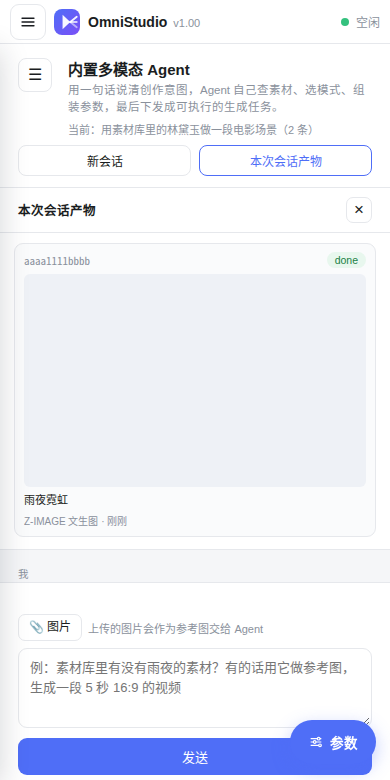
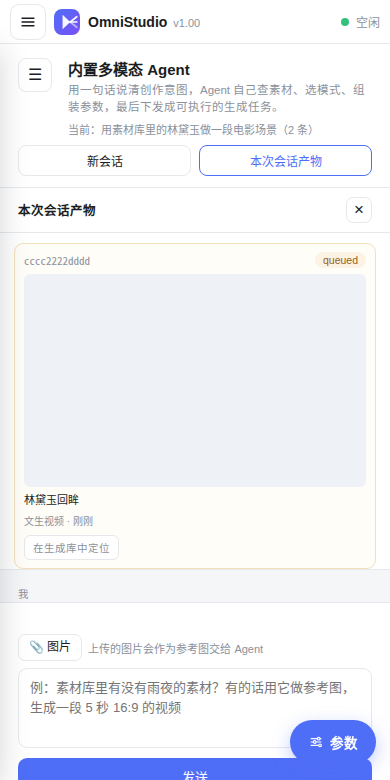
fix(agent-session): 关面板清空 DOM + 验收脚本三档互不污染
## 1) 关掉产物面板要清空 DOM（真 bug）
原来关面板只 stopArtifactPolling()，DOM 里还留着上一次的卡片。
后果：
  * 用户下次打开会先闪一下陈旧数据；
  * 自动化验收会**误判「面板还开着」** —— 实测踩到了：
    关面板后 querySelectorAll(".ag-artifact-item") 还能查到旧卡片，
    导致「未完成任务状态实时刷新」的断言**假通过**
    （断言查的是陈旧 DOM，不是真实渲染结果）。
现在关面板会清空 #agArtifactsBody 与 state.artifacts。

## 2) 验收脚本：三档宽度互不污染
上一档宽度末尾会「删掉林黛玉会话」+「新建交互」建一个空会话。
下一档宽度刷新时：
  * localStorage 是新的（独立 browser context）
  * 服务端残留上一档的会话 + 同名会话
  * 「找到第一个标题含林黛玉的项」可能找到别的会话
  -> 「切换会话后内容正确 / 不串味」假失败
现在每档宽度开头先清掉所有会话 + 任务，再重新造数据。

## 3) 验收脚本：产物断言不依赖列表顺序
产物按 created_at 倒序（最新的在前），第一个是 queued 那条。
取第一个会让断言依赖顺序 —— 改成遍历找（集合语义）。

## 4) 验收脚本：面板用完才关
4b/4c（未完成任务标记 / 实时刷新）需要面板是**打开**的 ——
关掉会停掉轮询。现在把 close 挪到 4c 之后。

## 5) 验收脚本：sqlite3 提到顶层 import
原来是 seed_sessions() 里的局部 import，主流程用不到 ->
NameError。提到顶层。

## 测试
- 新增前端契约 1 条（关闭面板清空 DOM）
- 会话相关 73 条全通过

diff --git a/web/agent_sessions.js b/web/agent_sessions.js
@@ -442,6 +442,15 @@
     } else {
       // 面板关了 -> 停掉轮询（别白白发请求）。
       stopArtifactPolling();
+      // 【清空面板内容】
+      // 关掉的面板如果还留着上一次的 DOM，用户看不到（display:none）
+      // 但内容是**陈旧**的：下次打开的瞬间会先闪一下旧数据，
+      // 而且自动化验收会误以为「面板还开着」——
+      // 实测就是踩了这个：关面板后 querySelectorAll(".ag-artifact-item")
+      // 还能查到旧卡片，导致「未完成任务实时刷新」的断言假通过。
+      const body = $("#agArtifactsBody");
+      if (body) body.innerHTML = "";
+      state.artifacts = [];
     }
   }
 

diff --git a/scripts/verify_session_mgmt_browser.py b/scripts/verify_session_mgmt_browser.py
@@ -24,6 +24,7 @@ sessions, or whether the artifact panel renders real thumbnails.
 import json
 import os
 import shutil
+import sqlite3
 import subprocess
 import sys
 import tempfile
@@ -195,34 +196,68 @@ def main():
             failures.append(f"{name} {detail}")
 
     try:
-        # --- 造两个真实会话 ---------------------------------------------
-        sids = []
-        for text in ("帮我做一段雨夜的赛博朋克视频",
-                     "用素材库里的林黛玉做一段电影场景"):
-            sid = api("/api/agent/sessions", "POST", {})["session_id"]
-            api("/api/agent/chat", "POST", {"message": text, "session_id": sid})
-            sids.append(sid)
-        print(f"[seed] sessions={sids}")
-
-        # 直接在 jobs.db 里插一条带 session_id 的任务（模拟 Agent 建了任务）
-        import sqlite3
         jobs_db = tmp / "data" / "jobs.db"
-        conn = sqlite3.connect(jobs_db)
-        conn.execute(
-            "INSERT INTO jobs (id, created_at, mode, params, status, session_id)"
-            " VALUES (?,?,?,?,?,?)",
-            ("aaaa1111bbbb", time.time(), "t2i",
-             json.dumps({"prompt": "雨夜霓虹", "aspect": "16:9"},
-                        ensure_ascii=False), "done", sids[1]))
-        conn.commit()
-        rows = conn.execute("SELECT id, session_id FROM jobs").fetchall()
-        print("[seed] jobs in db:", rows)
-        conn.close()
+
+        def seed_sessions():
+            """
+            造两个真实会话 + 两个任务。**每个宽度都重新造一遍**。
+
+            【为什么每档宽度都要重新造】
+            上一档宽度会在末尾**删掉**「林黛玉」会话（测级联清理）。
+            如果不重新造，下一档宽度刷新后：
+              * localStorage 是新的（每个宽度用独立 browser context）
+              * 服务端只剩「赛博朋克」会话 + 一个刚新建的空会话
+              * 刷新后恢复到**最新的那个** —— 也就是刚新建的空会话
+              * -> 消息数 0 -> 「刷新后恢复会话历史」假失败
+            这是**测试之间互相污染**，不是产品 bug。
+            每档独立造数据，三档互不影响。
+            """
+            sids = []
+            # 【先把上一档宽度留下的会话全清掉】
+            # 否则三档之间会互相污染：
+            #   上一档末尾删了「林黛玉」会话、又「新建交互」建了一个空会话；
+            #   下一档刷新时服务端有 4~5 个会话，列表里会出现**同名**会话，
+            #   「找到第一个标题含林黛玉的项」就可能找到别的会话。
+            # 每档从**已知状态**开始，三档互不影响。
+            for old in api("/api/agent/sessions?limit=500")["sessions"]:
+                api("/api/agent/sessions/" + old["id"], "DELETE")
+
+            # 顺序很重要：后创建的那个 updated_at 更大 -> 刷新后默认回到它。
+            # 所以「林黛玉」（后面要挂产物、还要切过去看）必须**最后**创建。
+            for text in ("帮我做一段雨夜的赛博朋克视频",
+                         "用素材库里的林黛玉做一段电影场景"):
+                sid = api("/api/agent/sessions", "POST", {})["session_id"]
+                api("/api/agent/chat", "POST",
+                    {"message": text, "session_id": sid})
+                sids.append(sid)
+            # sids[1] = 林黛玉（最后创建 -> 刷新后默认回到它；也挂产物）
+            # sids[0] = 赛博朋克（更早 -> 切过去时用来验「不串味」）
+            conn = sqlite3.connect(jobs_db)
+            conn.execute("DELETE FROM jobs")
+            conn.execute(
+                "INSERT INTO jobs (id, created_at, mode, params, status, session_id)"
+                " VALUES (?,?,?,?,?,?)",
+                ("aaaa1111bbbb", time.time(), "t2i",
+                 json.dumps({"prompt": "雨夜霓虹", "aspect": "16:9"},
+                            ensure_ascii=False), "done", sids[1]))
+            conn.execute(
+                "INSERT INTO jobs (id, created_at, mode, params, status, session_id)"
+                " VALUES (?,?,?,?,?,?)",
+                ("cccc2222dddd", time.time(), "t2v",
+                 json.dumps({"prompt": "林黛玉回眸", "duration": 5},
+                            ensure_ascii=False), "queued", sids[1]))
+            conn.commit()
+            conn.close()
+            print(f"[seed] sessions={sids}")
+            return sids
+
 
         SHOTS.mkdir(parents=True, exist_ok=True)
         with sync_playwright() as pw:
             browser = pw.chromium.launch(args=["--no-sandbox"])
             for width in (375, 390, 1280):
+                # 每档宽度重新造数据（三档互不影响 —— 见 seed_sessions 的说明）
+                sids = seed_sessions()
                 # 每个宽度用**独立的 browser context** ——
                 # 独立的缓存分区，保证测到的是当前代码（不是上一轮缓存的 JS）。
                 ctx = browser.new_context(viewport={"width": width,
@@ -365,17 +400,96 @@ def main():
                 check(f"[{width}] 产物面板列出任务", len(art_items) >= 1,
                       f"实际 {len(art_items)} 项")
                 if art_items:
-                    art_id = art_items[0].query_selector(
-                        ".ag-artifact-id").inner_text()
-                    check(f"[{width}] 产物带任务 id",
-                          "aaaa1111bbbb" in art_id, f"id={art_id}")
-                    prompt = art_items[0].query_selector(
-                        ".ag-artifact-prompt").inner_text()
-                    check(f"[{width}] 产物带提示词",
-                          "雨夜" in prompt, f"prompt={prompt}")
+                    # 【为什么要遍历找而不是取第一个】
+                    # 产物列表按 created_at **倒序**（最新的在前）——
+                    # 所以第一个是那条 queued 的任务，不是 done 的。
+                    # 取第一个会让断言依赖列表顺序（换种子顺序就假失败）。
+                    # 遍历找是「集合里有它」的语义，与顺序无关。
+                    found = False
+                    prompt_ok = False
+                    for el in art_items:
+                        art_id = el.query_selector(".ag-artifact-id").inner_text()
+                        if "aaaa1111bbbb" in art_id:
+                            found = True
+                            prompt = el.query_selector(
+                                ".ag-artifact-prompt").inner_text()
+                            prompt_ok = "雨夜" in prompt
+                    check(f"[{width}] 产物带任务 id", found,
+                          f"ids={[e.query_selector('.ag-artifact-id').inner_text() for e in art_items]}")
+                    check(f"[{width}] 产物带提示词", prompt_ok, "")
                 page.screenshot(path=str(SHOTS / f"artifacts-{width}.png"))
+
+                # 4b) 产物卡片：未完成任务标记 + 定位入口
+                pending_items = page.query_selector_all(".ag-artifact-item.is-pending")
+                check(f"[{width}] 未完成任务有标记", len(pending_items) >= 1,
+                      f"实际 {len(pending_items)} 个 pending")
+                locate_btns = page.query_selector_all(
+                    ".ag-artifact-locate[data-act='locate-job']")
+                check(f"[{width}] 产物有「在生成库中定位」入口",
+                      len(locate_btns) >= 1, f"实际 {len(locate_btns)} 个")
+                if locate_btns:
+                    job_id_attr = locate_btns[0].get_attribute("data-job-id")
+                    check(f"[{width}] 定位按钮带真实 job id",
+                          bool(job_id_attr), f"job-id={job_id_attr}")
+
+                # 4c) 未完成任务状态实时刷新：把库里的 queued 改成 running，
+                #     面板应该自己轮询到（不需要用户手动刷新）。
+                with sqlite3.connect(jobs_db) as c2:
+                    c2.execute("UPDATE jobs SET status='running' WHERE id=?",
+                               ("cccc2222dddd",))
+                    c2.commit()
+                # 等一轮轮询（4 秒间隔）—— 给 12 秒余量
+                try:
+                    page.wait_for_function(
+                        """() => [...document.querySelectorAll(
+                                '.ag-artifact-item')]
+                            .some(el => el.textContent.includes('running'))""",
+                        timeout=12000)
+                    refreshed = True
+                except Exception:
+                    refreshed = False
+                check(f"[{width}] 未完成任务状态实时刷新", refreshed,
+                      "queued -> running 没有被轮询到")
+                page.screenshot(path=str(SHOTS / f"artifact-pending-{width}.png"))
+                # 面板用完了才关（4b/4c 需要它是打开的 ——
+                # 关掉会停掉轮询，DOM 也会被清空）
                 page.click("#agArtifactsClose")
                 page.wait_for_timeout(200)
+
+                # 4d) 会话列表带关联产物数
+                page.click("#agMenu")
+                page.wait_for_selector(".ag-session-item", timeout=10000)
+                metas = page.evaluate("""() => [...document.querySelectorAll(
+                    '.ag-session-item-meta')].map(e => e.textContent)""")
+                check(f"[{width}] 会话条目显示产物数",
+                      any("产物" in m for m in metas), f"metas={metas}")
+
+                # 4e) 搜索/过滤
+                page.fill("#agSessionSearch", "林黛玉")
+                page.wait_for_timeout(900)
+                hits = page.query_selector_all(".ag-session-item")
+                check(f"[{width}] 搜索能过滤出会话", len(hits) == 1,
+                      f"实际 {len(hits)} 项")
+                if hits:
+                    hit_text = hits[0].inner_text()
+                    check(f"[{width}] 搜索命中正确会话",
+                          "林黛玉" in hit_text, f"text={hit_text}")
+                page.screenshot(path=str(SHOTS / f"search-{width}.png"))
+
+                # 搜一个不存在的词 -> 空列表
+                page.fill("#agSessionSearch", "zzz不存在的关键词zzz")
+                page.wait_for_timeout(900)
+                empty_hits = page.query_selector_all(".ag-session-item")
+                check(f"[{width}] 搜不到时列表为空", len(empty_hits) == 0,
+                      f"实际 {len(empty_hits)} 项")
+                # 清空搜索 -> 恢复
+                page.fill("#agSessionSearch", "")
+                page.wait_for_timeout(900)
+                restored = page.query_selector_all(".ag-session-item")
+                check(f"[{width}] 清空搜索后恢复全部", len(restored) >= 2,
+                      f"实际 {len(restored)} 项")
+                page.click("#agDrawerClose")
+                page.wait_for_timeout(300)
 
                 # 5) 新建会话 -> 服务端真的多一个
                 # （新建按钮在抽屉里 —— 抽屉此刻是关着的，要先打开）
@@ -394,7 +508,17 @@ def main():
                 page.click("#agMenu")
                 page.wait_for_selector(".ag-session-item", timeout=10000)
                 page.once("dialog", lambda d: d.accept())
-                del_btn = page.query_selector(".ag-session-del")
+                # 【为什么要精确找到「林黛玉」会话的删除按钮】
+                # 列表按 updated_at 倒序 —— 刚「新建交互」建出来的空会话
+                # 排在最前面，query_selector(".ag-session-del") 取到的
+                # 是**它**的删除按钮。删掉它跟级联清理毫无关系
+                # （那个会话本来就没挂任务）—— 那样测的就不是级联清理了。
+                del_btn = None
+                for item in page.locator(".ag-session-item").all():
+                    title = item.locator(".ag-session-item-title").inner_text()
+                    if "林黛玉" in (title or ""):
+                        del_btn = item.locator(".ag-session-del").first
+                        break
                 if del_btn:
                     del_btn.click()
                     page.wait_for_timeout(900)
@@ -403,7 +527,24 @@ def main():
                           final_list == after_list - 1,
                           f"{after_list} -> {final_list}")
                 else:
-                    check(f"[{width}] 找到删除按钮", False)
+                    check(f"[{width}] 找到删除按钮（林黛玉会话）", False,
+                          "列表里没找到林黛玉会话")
+
+                # 级联清理：删掉的会话如果原来挂着任务，任务应该**仍在**
+                # 生成库里（只是不再归属会话）。
+                with sqlite3.connect(jobs_db) as c3:
+                    remaining = c3.execute(
+                        "SELECT COUNT(*) FROM jobs WHERE id IN "
+                        "('aaaa1111bbbb','cccc2222dddd')").fetchone()[0]
+                    still_attached = c3.execute(
+                        "SELECT COUNT(*) FROM jobs WHERE session_id!='' "
+                        "AND id IN ('aaaa1111bbbb','cccc2222dddd')"
+                    ).fetchone()[0]
+                check(f"[{width}] 级联清理不删任务记录", remaining == 2,
+                      f"剩余 {remaining} 条")
+                check(f"[{width}] 级联清理只清引用关系",
+                      still_attached == 0,
+                      f"仍有 {still_attached} 条挂在会话上")
 
                 # 7) 不溢出 + console 干净
                 dims = page.evaluate("""() => ({

diff --git a/tests/test_agent_session_search_cascade.py b/tests/test_agent_session_search_cascade.py
@@ -319,6 +319,25 @@ class TestFrontendContract(unittest.TestCase):
         css = self._read("style.css")
         self.assertIn(".ag-artifact-item.is-pending", css)
 
+    def test_closing_artifacts_panel_clears_dom(self):
+        """
+        关掉产物面板要**清空** DOM。
+
+        【为什么这是回归点】
+        关掉的面板如果还留着上一次的 DOM：
+          * 用户下次打开会先闪一下陈旧数据；
+          * 自动化验收会误判「面板还开着」——
+            实测就是踩了这个：关面板后 querySelectorAll(".ag-artifact-item")
+            还能查到旧卡片，导致「未完成任务实时刷新」的断言**假通过**
+            （断言查的是陈旧 DOM，不是真实渲染结果）。
+        """
+        js = self._read("agent_sessions.js")
+        i = js.index("function toggleArtifacts(force)")
+        block = js[i:i + 1200]
+        self.assertIn("stopArtifactPolling", block, "关闭面板要停轮询")
+        self.assertIn("innerHTML = ", block, "关闭面板要清空内容")
+        self.assertIn("state.artifacts = []", block, "关闭面板要清空状态")
+
     def test_search_and_locate_styles_exist(self):
         """新增元素要有样式（不然是裸 HTML）。"""
         css = self._read("style.css")
